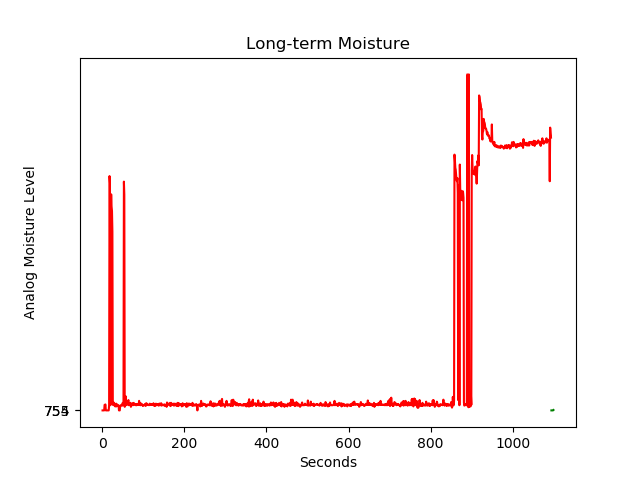
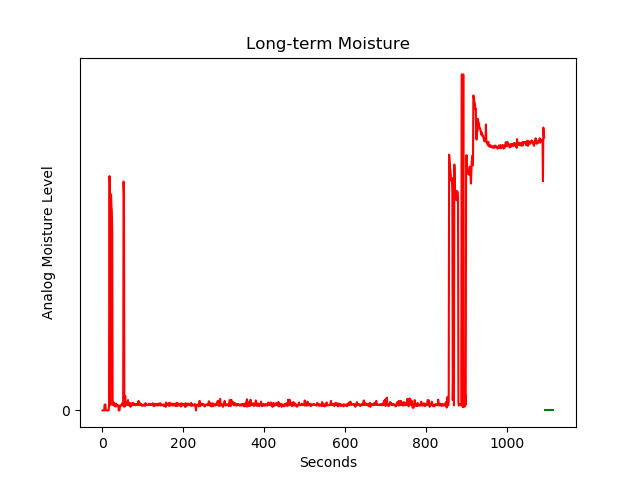
Graphs

diff --git a/templates/water.html b/templates/water.html
@@ -47,17 +47,11 @@
         <h1>Water</h1>
 
         <div id="data">
-          <!-- Weather API -->
-          <a class="box tooltip">
-            <p>Weather:</p>
-            <p>23°C</p>
-            <span class="tooltiptext">Weather Data</span>
-          </a>
 
           <!-- Humidity -->
           <a class="box tooltip">
             <p>Humidity:</p>
-            <p>54%</p>
+            <p>{{ water }}%</p>
             <span class="tooltiptext">Humidity Data</span>
           </a>
 
@@ -73,7 +67,7 @@
         </div>
 
         <!-- <p>Recommended: Your plant needs water!</p> -->
-        <p>Prediction: The plant will need water in 23 hours.</p>
+        <p>Prediction: The plant will need water in approximately 7 hours.</p>
       </div>
 
   </div>

diff --git a/templates/temperature.html b/templates/temperature.html
@@ -48,7 +48,7 @@
           <!-- Weather API -->
           <a class="box tooltip">
             <p>Weather:</p>
-            <p>23°C</p>
+            <p>{{ temperature }}°C</p>
             <span class="tooltiptext">Weather Data</span>
           </a>
 
@@ -59,11 +59,9 @@
               <input class="switch-button" type="checkbox" name="main power" onClick="" />
               <span class="slider round">
             </label>
-            <span class=" tooltiptext">Our Recommendation</span>
           </a>
         </div>
 
-        <p>Recommended: Your plant needs water!</p>
       </div>
 
       <!-- Right Side (Image) -->

diff --git a/templates/info.html b/templates/info.html
@@ -47,10 +47,12 @@
         <h1>Information</h1>
 
         <!-- The amount of water being used -->
-        <p>Water Used: [TODO]</p>
+        <p>Moisture Levels:</p>
 
-        <!-- Timeline -->
-        <p>Timeline History: [TODO]</p>
+        <div id="thing">
+          <img id="graph1" src="../static/resources/moistureshort.png" />
+          <img id="graph2" src="../static/resources/moisturelong.png" />
+        </div>
 
       </div>
 

diff --git a/templates/light.html b/templates/light.html
@@ -48,7 +48,7 @@
           <!-- Weather API -->
           <a class="box tooltip">
             <p>UV Sensors:</p>
-            <p>68%</p>
+            <p>{{ light }}%</p>
             <span class="tooltiptext">UV Sensor Data</span>
           </a>
 
@@ -62,7 +62,6 @@
             <span class=" tooltiptext">Light Button: To toggle the light</span>
           </a>
         </div>
-
       </div>
 
       <!-- Right Side (Image) -->

diff --git a/static/css/style.css b/static/css/style.css
@@ -216,3 +216,25 @@ main {
     align-items: center;
     justify-content: center;
 }
+
+#thing {
+  display: flex;
+    flex-direction: row;
+}
+
+#graph1, #graph2 {
+  height: 140px !important;
+  width: 200px !important;
+}
+
+#graph1 {
+  margin-right: 50px;
+}
+
+#graph1:hover, #graph2:hover {
+  height: 60vh !important;
+  width: 40vw !important;
+  z-index: 1100 !important;
+  position: absolute;
+  top: 20%;
+}

diff --git a/templates/index.html b/templates/index.html
@@ -49,7 +49,7 @@
             <p>Temp</p>
             <p>{{ temperature }}°C</p>
           </a>
-          <a class="box" href="{{ url_for('water1') }}">
+          <a class="box" href="{{ url_for('water') }}">
             <p>Water</p>
             <p>{{ water }}%</p>
           </a>

diff --git a/app.py b/app.py
@@ -25,14 +25,26 @@ for i in range(0, len(mem)):
 	if line[2] > waterMax:
 		waterMax = line[2]
 
-moistureShortPath = "moistureshort.png"
-moistureLongPath = "moisturelong.png"
+moistureShortPath = "static/resources/moistureshort.png"
+moistureLongPath = "static/resources/moisturelong.png"
 memGlobal = None
 cacheGlobal = None
 waterGlobal = 0
 lightGlobal = 0
 owm = pyowm.OWM("14963a49f9571f300dd0d464fa4e5c2e")
 
+
+def getTemperature():
+	observation = owm.weather_at_place("San Francisco, US")
+	w = observation.get_weather()
+	return int(w.get_temperature("celsius")["temp"])
+
+def getWater():
+	print(int(waterGlobal * 100 / waterMax))
+	return int(waterGlobal * 100 / waterMax)
+
+def getLight():
+	return int(lightGlobal * 100 / lightMax)
 
 def predict_json(project, model, instances, version=None):
 	"""Send json data to a deployed model for prediction.
@@ -96,16 +108,27 @@ def update(cache):
 	threading.Timer(2.0, update, [cache]).start()
 
 app = Flask(__name__)
-#update(cache)
+update(cache)
 
 @app.route('/')
 def index():
-	observation = owm.weather_at_place("San Francisco, US")
-	w = observation.get_weather()
-	return render_template("index.html", temperature = int(w.get_temperature("celsius")["temp"]), water=int(waterGlobal * 100 / waterMax), light=int(lightGlobal * 100 / lightMax))
+	
+	return render_template("index.html", temperature = getTemperature(), water = getWater(), light = getLight())
 
 @app.route('/water')
 def water():
+	return render_template("water.html", water = getWater())
+
+@app.route('/light')
+def light():
+	return render_template("light.html", light = getLight())
+
+@app.route('/temperature')
+def temperature():
+	return render_template("temperature.html", temperature = getTemperature())
+
+@app.route('/info')
+def info():
 	memNp = np.array(memGlobal)
 	cacheNp = np.array(cacheGlobal)
 	plt.title("Short-term Moisture")
@@ -127,22 +150,6 @@ def water():
 		os.remove(moistureLongPath)
 	plt.savefig(moistureLongPath)
 	plt.clf()
-	return render_template("water.html")
-
-@app.route('/light')
-def light():
-	return render_template("light.html")
-
-@app.route('/temperature')
-def temperature():
-	return render_template("temperature.html")
-
-@app.route('/water1')
-def water1():
-	return render_template("water.html")
-
-@app.route('/info')
-def info():
 	return render_template("info.html")
 
 if __name__ == '__main__':
